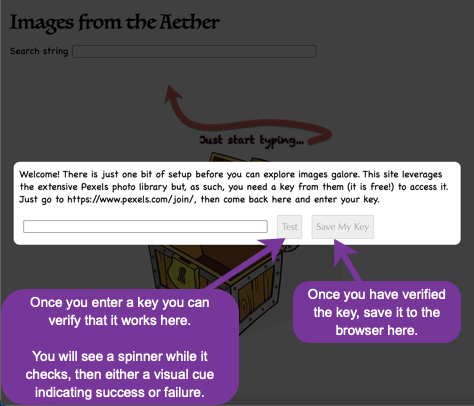
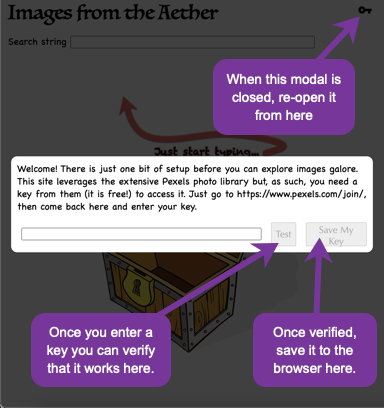
More text/images for README

diff --git a/README.md b/README.md
@@ -2,21 +2,244 @@
 
 ## Purpose
 
-This is a demo project (but not just a toy) to highlight my development skills for a real application.
+"Images from the Aether" is a cloud image viewer web application.
+There are plenty of image viewers out there, of course.
+And, in fact, I did not sit down to create one.
+What I wanted to do was create a modern web app from scratch using best design principles and practices
+as a showcase piece for my portfolio.
 
-The high-level requirements are just these:
+So this is a real, working web app; not a toy or demo.
+
+These are the high-level requirements:
 
 - Display a photo collection keyed off a user-specified string.
-- Search bar that responds as the user types.
-- Images retrieved from the Pexels API.
-- Results displayed in a responsive grid.
-- Infinite scroll.
-- Selecting an image opens a larger modal view of that image along with the author's name.
+- Have a search bar that responds as the user types.
+- Retrieve photos from the Pexels API.
+- Display results in a responsive grid.
+- Use infinite scroll.
+- Open an enlargement of a photo (and include the author's name) by clicking on one in the results.
 - Image should be downloadable from that detail modal.
 
-### Unit Tests as Low-Level Requirements
+That leaves a variety of details unspecified, of course.
+What I wanted to do was a clean TDD design so that, at the end, the unit tests itemize low-level requirements, providing a complete contract of the application's behavior -- guaranteed to be an accurate list of requirements as long as the tests pass!
 
-That leaves a variety of details unspecified, of course. The place to see that
+## The Design and the Result
+
+What is the quickest way for you, the reader, to understand what this application does, down to every nitty gritty detail?
+Sure you could read the code but it is quite a leap from that to really knowing what the app does.
+Or you could run the code--but you really would not know how to exercise everything that the app does.
+Better than either of those: come with me as I describe the behavior to you -- through unit tests (and pictures).
+
+### User Input
+
+Let us begin with the user input. I want to let the user type anything, except that leading and/or trailing whitespace should be ignored.
+But that means I need to also make sure that whitespace elsewhere is still preserved, and other special characters (e.g. punctuation) are also preserved. This set of tests covers all those:
+
+```text
+Section: AppComponent >> user input >> normalizing input
+• leading and trailing whitespace in user input ignored
+• leading whitespace in user input ignored
+• trailing whitespace in user input ignored
+• user input used verbatim when no whitespace present
+• intermediate whitespace in user input is preserved
+• special characters used verbatim
+```
+
+### Acting on User Input
+
+Now as the user types, I want to respond briskly, to fetch matching photos. So I want to react to every keystroke, yes, but only when the user pauses, say after a "debounce period" of 400 milliseconds.
+
+```text
+Section: AppComponent >> user input >> react to keystrokes
+• images are fetched on every keystroke (after debounce period)
+• images are NOT fetched if debounce period has not expired
+• images are NOT fetched when input is empty
+```
+
+### Fetching Results
+
+Once that debounce period has elapsed, we call the API to fetch the first batch of photos.
+Here is a typical screen showing the input and output so far.
+Each image is annotated with an index number to give you a better sense of where you are in the results as you scroll.
+Only a small number of images are fetched at a time; as you near the bottom of the scroll region, another batch is fetched.
+
+![nominal results](./src/assets/readme-graphics/nominal-results.png)
+
+Subsequent batches are fetched automatically as the user scrolls to the end of previous batch in the virtual scroll container.
+As the user scrolls, events are emitted and observed.
+Only when an event corresponds to the last photo of the previous batch do we fetch more.
+Which means there are a variety of times that we do _not_ fetch more. Here are the tests:
+
+```text
+Section: ViewPhotosComponent >> with mock API >> fetching more photos during scrolling
+• more photos are fetched when final photo is encountered
+• more photos are NOT fetched when any non-final photo is encountered
+• more photos are NOT fetched when initializing event triggers
+• more photos are NOT fetched when end of input reached
+• more photos are NOT fetched while still loading previous batch
+```
+
+When the user has scrolled to the bottom and a request for more photos is initiated, the next batch will arrive after some short delay based on the user's internet connection speed. That interval may be imperceptibly short... or it may not.
+While loading, then, it is helpful to have a visual cue -- a spinner -- to let the user know loading is in progress.
+Also, once the final batch of photos arrives, it is useful to have a visual cue indicating the end has been reached.
+This set of test verifies both those visual cues:
+
+```text
+Section: ViewPhotosComponent >> with mock API >> status indicators
+• displays end marker when collection exhausted (logic)
+• displays end marker when collection exhausted (rendering)
+• displays spinner while fetching photos
+```
+
+Here is a close up of the end marker (in the same location as the spinner).
+
+![end results](./src/assets/readme-graphics/end-results.png)
+
+With a collection of results to view, one can select any image to open a detail view, showing
+an enlargement of the selected photo along with some details of the photograph, as detailed by these tests:
+
+```text
+Section: ViewPhotosComponent >> with modal component >> detail view
+• signals modal to open when user selects an image
+• renders larger image of selected photo in modal
+• renders author of photo's name in modal
+• renders link to author enclosing the name
+• link to author will open in a new tab (or window)
+```
+
+A typical representation:
+
+![detail view](./src/assets/readme-graphics/detail-view.png)
+
+### Variations on a Result
+
+Seeing a collection of photos is ultimately what a user is after when using this application.
+But there are several other things the user might see depending on circumstances.
+
+(1) When first opening up the app, nothing has been searched for so clearly there can be no results to display.
+Instead, the user will see the no-search-started graphic, a sugar-coated image that conveys the "start here" message.
+
+(2) while the available collection of images is vast it is not limitless so it is possible that no images are found to match what the user types.
+In that event, the no-results graphic appears.
+
+(3) In order to access the photo collection, one has to have a valid access key (discussed further next).
+If the key is not valid and one asks for some images, the unauthorized graphic appears.
+
+(4) Inevitably there are other assorted error circumstances, including no internet connection, server limit exceeded, and countless others.
+For any of these unexpected errors a general-error graphic appears.
+
+Here are thumbnails of those four displays:
+
+![composite view](./src/assets/readme-graphics/composite-views.png)
+
+The set of unit tests below confirm each of those images appears at the correct time.
+Additionally, there is a final test that confirms that none of those images appear while a loading operation is ongoing.
+
+```text
+Section: ViewPhotosComponent >> with spy API >> result graphics
+• displays no-search-started graphic with no input
+• displays no-results graphic with some input but no results
+• displays unauthorized graphic for authorization failure
+• displays note for authorization failure
+• displays general-error graphic for NON-authorization failure
+• displays error code and message for NON-authorization failure
+• does not display any graphic while loading
+```
+
+### API Access
+
+As mentioned just above, the application requires an access key to obtain results from the Pexels API.
+While I could have hard-wired a single access key that everyone who downloaded the app would use, I thought it would yield a more interesting design by thinking about that API key as credentials for the application itself and, as such, it would not be overly burdensome to require each user to obtain and register their own key with the app.
+Thus, upon startup the first thing that occurs is a check for a stored key; if not found, it pops up a modal asking the user to supply one.
+That same modal may be re-opened at any time by selecting the key icon in the upper right corner of the display.
+
+![initial no key present](./src/assets/readme-graphics/initial-no-key-modal.png)
+
+These unit tests elaborate on the opening behavior of the modal for the API key:
+
+```text
+Section: AppComponent >> API key
+• at startup, retrieves the previously saved user-entered key from browser local storage
+• opens the key-entering modal automatically when no key found stored
+• does NOT open the key-entering modal automatically when key is found stored
+• opens the key-entering modal manually by clicking on the key icon
+• stores the user-entered key in browser local storage
+```
+
+That deceptively simple modal has a number of behaviors to provide a useful user experience.
+The illustration (my naive attempt at creating a [kineograph](https://en.wikipedia.org/wiki/Flip_book)) and the unit tests following provide the complete story.
+
+![composite key modal](./src/assets/readme-graphics/composite-key-modal.png)
+
+```text
+Section: AppComponent >> key modal
+• has an input field to enter the key
+• has buttons to save and to test the key
+• buttons are initially disabled
+• buttons reacts to presence of input
+• test button has status indicators that are initially hidden
+• test button reveals only spinner when API operation is in progress
+• test button reveals only success indicator when API reports success
+• test button reveals only failure indicator when API reports failure
+• test button is disabled while test operation is in progress
+• test button is NOT disabled when test operation completes
+```
+
+### The Base Modal Component
+
+Both the modal for the API key and the modal for the detail image view are using the same component, the BaseModalComponent,
+which provides its own inherent behaviors to any consumers:
+
+```text
+Section: BaseModalComponent
+• modal opens on demand
+• modal can be closed on demand
+• modal closes itself upon pressing "escape"
+• modal does NOT close upon pressing keys other than "escape"
+• modal closes itself when clicking the background
+• modal does NOT close when clicking deeper inside the modal body
+• modal does NOT close when clicking the modal body
+```
+
+### State Management
+
+I am using [@ngxs/store](https://github.com/ngxs/store#readme) for the first time with this project, having previously been an avid [@ngrx/store](https://github.com/ngrx/platform#readme) user.
+Both of these provide a powerful state management system based on Redux for use in Angular applications.
+
+I came across ngxs recently in my search for a way to do reduce the boilerplate needed by ngrx.
+You can compare and contrast the two systems on [npmcompare.com](https://npmcompare.com/compare/@ngrx/store,@ngxs/store) and [npmtrends.com](https://www.npmtrends.com/@ngrx/store-vs-@ngxs/store).
+They both work on the same principles: you dispatch an action, that action causes side effects, the store gets updated from those side effects, and ultimately subscribers watching specific portions of the store render responses to those state changes in the UI.
+
+There are two actions used by this simple application:
+
+**SetSearchString** is called every time the user modifies the search string at the top of the application window (but after the debounce period, that is).
+It clears out the prior results, if any, and then stores the new string in the state.
+The ViewPhotosComponent watches for changes to that particular piece of the state.
+When it sees a new value, it invokes the next action, Fetch Photos.
+
+**FetchPhotos** is invoked by either the presence of a new search string initiated by SetSearchString or by the user scrolling to the last photo of the prior results. Either way, it liaises with the ImageService to fetch more data from the Pexels API.
+Once that new data is received, it determines whether it is the final batch or not (to set the end flag), and it adds a relative index number to each received photo so that can be displayed along with the photo in the UI.
+
+```text
+Store actions >> SetSearchString action
+• resets page counter to zero
+• puts search string into state
+• resets photos to empty list
+Store actions >> FetchPhotos action
+• end of input reflects in state with value 'true'
+• end of input reflects in state with value 'false'
+• annotates photos with sequence number
+• stores new photos in state
+• increments page number with each subsequent fetch
+```
+
+
+
+
+
+
+
+The place to see that
 (a) the above high-level requirements are all met, and (b) the choices for low-level requirements,
 are in the unit tests.
 The unit tests provide a thorough contract of low-level requirements -- guaranteed to be
@@ -26,80 +249,10 @@ Unit tests cover all behaviors (what the code does) but also verify dynamic UI e
 
 Unit tests do NOT cover the actual look of the UI (where a button or field is positioned on the page, alignment of elements, etc.). Also unit tests do not cover performance.
 
+### Unit Tests as Low-Level Requirements
 For convenience, here is a static snapshot of all the unit tests as of 2021.08.13:
 
-```text
-AppComponent
-  key modal
-   • buttons reacts to presence of input
-   • buttons are initially disabled
-   • test button has status indicators that are initially hidden
-   • has buttons to save and to test the key
-   • has an input field to enter the key
-   • test button reveals only spinner when API operation is in progress
-   • test button reveals only success indicator when API reports success
-   • test button reveals only failure indicator when API reports failure
-  user input
-   • trailing whitespace in user input ignored
-   • no whitespace in user input used as is
-   • leading and trailing whitespace in user input ignored
-   • leading whitespace in user input ignored
-   • images are fetched on every keystroke (after debounce period)
-   • images are NOT fetched if debounce period has not expired
-   • images are NOT fetched when input is empty
-  general
-   • should render heading
-   • should create the app
-  API key
-   • at startup, retrieves the previously saved user-entered key from browser local storage
-   • stores the user-entered key in browser local storage
-   • pops up the key-entering modal when no key found stored
-   • does NOT pop up the key-entering modal when key is found stored
-
-ViewPhotosComponent
-  default
-   • more photos are NOT fetched while still loading previous batch
-   • dispatch is invoked when more photos available
-   • signals modal to open when user selects an image
-   • more photos are NOT fetched when event is triggered by any other photo
-   • more photos are NOT fetched when initializing event triggers
-   • more photos are NOT fetched when end of input reached
-  with mock API
-   • displays end marker when collection exhausted (rendering)
-   • more photos are fetched when event is triggered by final photo
-   • displays spinner while fetching photos
-   • displays end marker when collection exhausted (logic)
-  with spy API
-   • displays no-search-started-graphic with no input
-   • does not display either empty graphic while loading
-   • displays no-results-graphic with some input but no results
-  with modal component
-   • renders author of photo's name in modal
-   • renders link to author enclosing the name
-   • renders larger image of selected photo in modal
-
-BaseModalComponent
- • modal does NOT close when clicking deeper inside the modal body
- • modal does NOT close when clicking the modal body
- • modal closes itself when clicking the background
- • modal can be closed on demand
- • should be created
- • modal closes itself upon pressing "escape"
- • modal does NOT close upon pressing keys other than "escape"
- • modal opens on demand
-
-Store actions
-  FetchPhotos action
-   • end of input reflects in state with value 'false'
-   • end of input reflects in state with value 'true'
-   • increments page number with each subsequent fetch
-   • annotates photos with sequence number
-   • stores new photos in state
-  SetSearchString action
-   • puts search string into state
-   • resets photos to empty list
-   • resets page counter to zero
-```
+...
 
 The above set of unit tests tests the components:
 
@@ -107,39 +260,7 @@ The above set of unit tests tests the components:
 - The ViewPhotosComponent houses the collection of photos in an infinite scroll region. It provides several visual cues (no search started, no results found, end of results reached, fetch in progress), along with providing a modal to show details of a selected image.
 - The BaseModalComponent is a generic modal component that can be customized by providing content. It is used both to display image details (larger image, author, download link) and for prompting the user for an initial API key.
 
-The above unit tests also test the state management aspects:
-I am using [@ngxs/store](https://github.com/ngxs/store#readme) for the first time with this project, having previously been an avid [@ngrx/store](https://github.com/ngrx/platform#readme) user.
-I came across ngxs recently in my search for a way to do reduce the boilerplate necessary for ngrx.
-The two systems can be compared and contrasted on [npmcompare.com](https://npmcompare.com/compare/@ngrx/store,@ngxs/store) and [npmtrends.com](https://www.npmtrends.com/@ngrx/store-vs-@ngxs/store).
 
-## Using the Application
-
-Let's take a step up now to see what the running application actually looks like.
-
-Results are fetched as you type. Each image is annotated with an index number to give you a better sense of where you are in the results as you scroll. Only a small number of images are fetched at a time; as you near the bottom of the scroll region, more are fetched.
-
-![nominal results](./src/assets/readme-graphics/nominal-results.png)
-
-Once you reach the last group of images, you will see a visual cue at the bottom to let you know.
-
-![end results](./src/assets/readme-graphics/end-results.png)
-
-You can enlarge any image by selecting it; a details view opens in a modal window.
-
-![detail view](./src/assets/readme-graphics/detail-view.png)
-
-Initially -- when you have not asked for anything and no results are present -- you will see this friendly screen.
-
-![initial screen](./src/assets/readme-graphics/initial-screen.png)
-
-When you first start the application you need to provide a key to use the API.
-If no key is yet detected it will prompt you to get, test, and save one.
-
-![initial no key present](./src/assets/readme-graphics/initial-no-key-modal.png)
-
-If no results are found for your search string, you see this melancholy display:
-
-![no results](./src/assets/readme-graphics/no-results.png)
 
 ## Default Generated Docs for this Project
 
